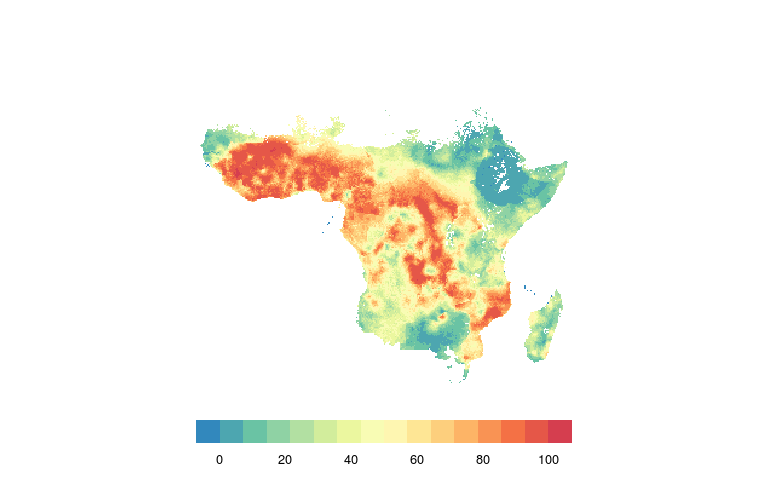
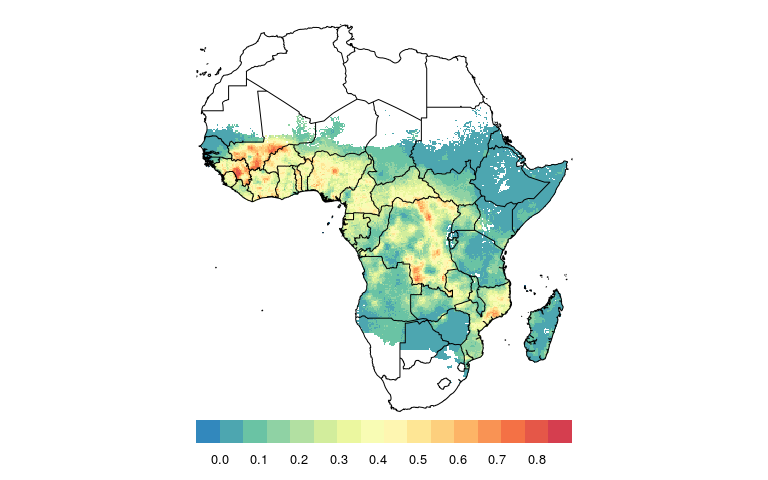
major update

diff --git a/README.md b/README.md
@@ -3,25 +3,14 @@
 cowsquito: Identifying geographical areas of greatest potential impact for livestock ivermectin implants
 ========================================================================================================
 
-Data sources
-============
-
-### Where are the cows?
-
-<https://livestock.geo-wiki.org/Application/index.php>
-
-### Where are the mosquitoes?
-
-<https://map.ox.ac.uk/explorer/#/explorer>
-
 Methods
 =======
 
 -   We use raw raster data on where cattle are from the International Livestock Research Institute (ILRI) and the Food and Agriculture Organization of the United Nations (FAO) and the Université Libre de Bruxelles (ULB-LUBIES).
 -   We use raw raster data on the Plasmodium falciparum parasite rate in 2-10 year olds in Africa in 2015, made available through the Malaria Atlas Project.
 -   We use R to process the data, standardize their geographic attributes (extents, projections) and quality attributes (granularity, etc.).
--   We use simple percentilization to scale incidence (0-1) and cattle per square kilometer (0-Inf) into a 0-100 metric.
--   We combine our two metrics by simple average. So, in the combined score, 0 means no Pf or cattle, and 100 means the maximum amount of Pf and cattle. Anything between the two represents some combination. This method assumes an equilinear value of both percentilized Pf and cattle (ie, a place with 60th percentile cattle density and 40th percentile Pf is equally as promising as a place with 40th percentile cattle density and 60th percentile Pf).
+-   We use simple percentilization to scale prevalence (0-1) and cattle per square kilometer (0-Inf) into a 0-100 metric.
+-   We combine our two metrics by simple product So, in the combined score, 0 means no Pf or cattle, and 100 means the maximum amount of Pf and cattle. 0 can also much of one metric, but not of the other (for example, a very malarious region with no cattle gets a 0). Anything between the two represents some combination. This method assumes an equilinear value of both percentilized Pf and cattle (ie, a place with 60th percentile cattle density and 40th percentile Pf is equally as promising as a place with 40th percentile cattle density and 60th percentile Pf).
 -   Full code in this repo (`code.R`).
 
 Results
@@ -34,32 +23,77 @@ The below shows the raw data on the Plasmodium falciparum parasite rate in 2-10 
 
 <img src="README-unnamed-chunk-3-1.png" style="display: block; margin: auto;" />
 
-The below shows our (scaled) data on the Plasmodium falciparum parasite rate in 2-10 year-olds.
+The below is identical to the above, but with country borders.
 
 <img src="README-unnamed-chunk-4-1.png" style="display: block; margin: auto;" />
+
+The below shows our (scaled) data on the Plasmodium falciparum parasite rate in 2-10 year-olds.
+
+<img src="README-unnamed-chunk-5-1.png" style="display: block; margin: auto;" />
+
+The below is identical to the above, but with country borders.
+
+<img src="README-unnamed-chunk-6-1.png" style="display: block; margin: auto;" />
 
 Cattle density
 --------------
 
-The below shows the raw data on cattle density per square kilometer.
+The below shows our (scaled) cattle scores for Africa.
 
-<img src="README-unnamed-chunk-5-1.png" style="display: block; margin: auto;" />
+<img src="README-unnamed-chunk-7-1.png" style="display: block; margin: auto;" />
 
-The below shows our (scaled) cattle scores (Africa only).
+The below is identical to the above, but with country borders.
 
-<img src="README-unnamed-chunk-6-1.png" style="display: block; margin: auto;" />
+<img src="README-unnamed-chunk-8-1.png" style="display: block; margin: auto;" />
 
 Combined score
 --------------
 
-The below shows our combined score.
+### Multidimensional score
 
-<img src="README-unnamed-chunk-7-1.png" style="display: block; margin: auto;" />
+We can visualize both the quantity of malaria and cattle through a 2-dimensional color-scale. In the below chart, we use a 10,000 value color palette, mixing green (neither cattle nor malaria) with blue (lots of cattle, little malaria) with orange (lots of malaria, little cattle) with purple (lots of both). Below the map is key for interpretation.
 
-Discussion
+<img src="README-unnamed-chunk-9-1.png" style="display: block; margin: auto;" />
+
+<img src="README-unnamed-chunk-10-1.png" style="display: block; margin: auto;" />
+
+The below is identical to the above, but with country borders.
+
+<img src="README-unnamed-chunk-11-1.png" style="display: block; margin: auto;" />
+
+### Single score
+
+The below shows our combined score, using the product of the cattle and malaria metrics. Unlike the above multi-dimensional score, this visual does not contain as much information (ie, with a value of "40", it's not clear whether this is due to a cattle percentile of 40 and a malaria percentile of 1, or a cattle percentile of 5 and a malaria percentile of 8). That said, a one-dimensional color legend is much easier to interpret visually.
+
+<img src="README-unnamed-chunk-12-1.png" style="display: block; margin: auto;" />
+
+The below is identical to the above, but with country borders.
+
+<img src="README-unnamed-chunk-13-1.png" style="display: block; margin: auto;" />
+
+### Country aggregation
+
+We aggregate at the polygonal national level so as to rank countries by suitability for intervention. The below maps show the mean, median, maximum, and % of area greater than continental median "single score" (product of Pf and cattle percentile) for each country in Africa.
+
+<img src="README-unnamed-chunk-14-1.png" style="display: block; margin: auto;" />
+
+Conclusion
 ==========
 
 West Africa appears to be the region with the most promise for ivermectin-infused cows. Yummy.
+
+Data sources
+============
+
+### Where are the cows?
+
+<https://livestock.geo-wiki.org/Application/index.php>
+
+### Where are the mosquitoes?
+
+(malaria, actually)
+
+<https://map.ox.ac.uk/explorer/#/explorer>
 
 Contact
 =======
